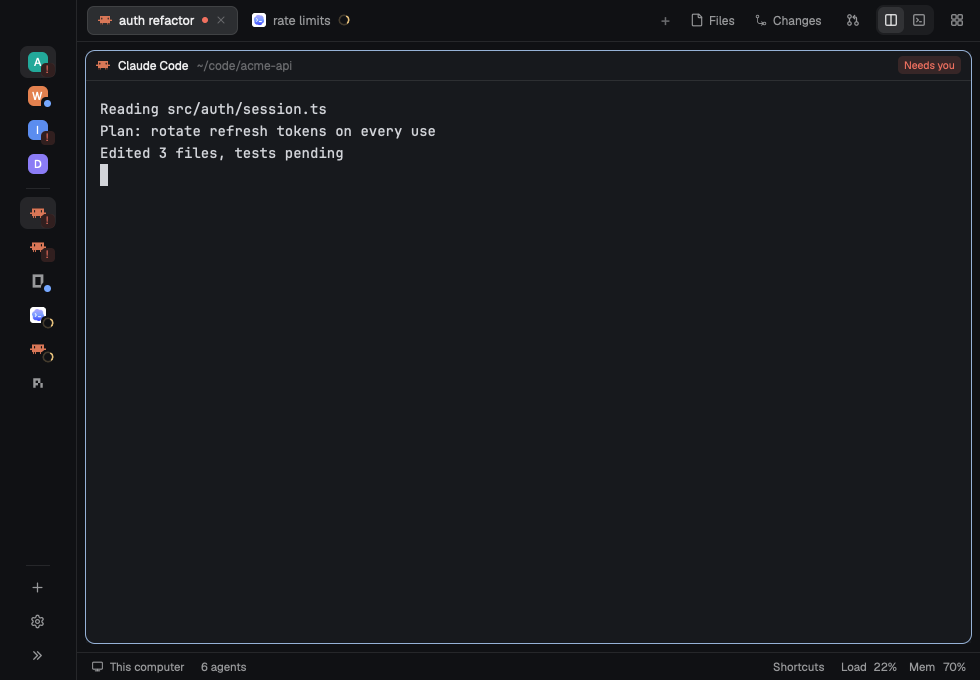
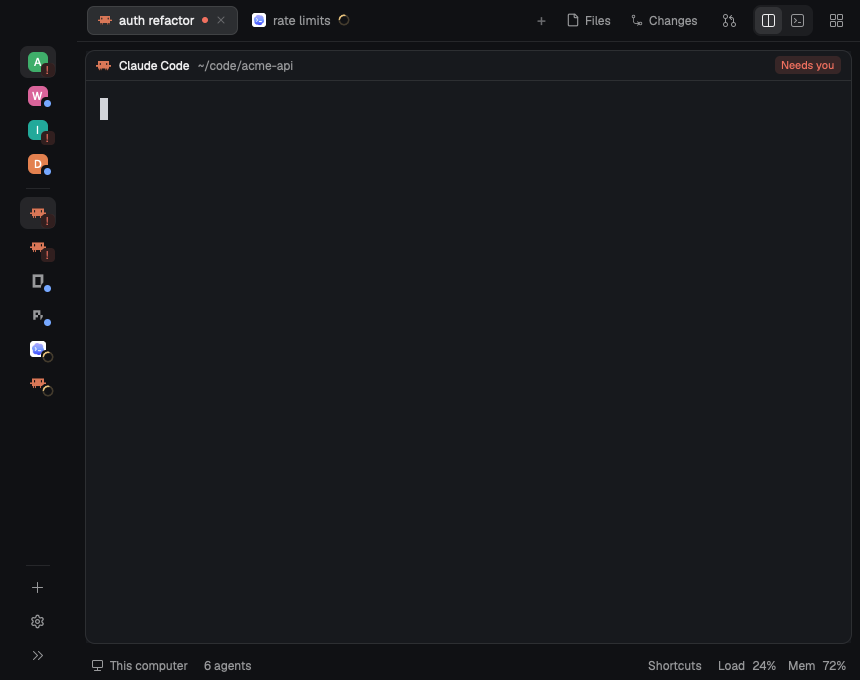
Sharpen for 1x screens and rename to Homestead

diff --git a/mods/homestead/bar.js b/mods/homestead/bar.js
@@ -7,7 +7,7 @@
 import { div, svg } from "gpui-kit";
 import { h_flex } from "gpui-base";
 import { agents, focused, layout, nextCommand, notify, openOverlay, panes, run, setShared, shared, spaces, theme, window } from "herdr";
-import { inboxRows, panelLimit, showsFooter } from "./fit.js";
+import { inboxRows, panelLimit, showsFooter, showsLabels } from "./fit.js";
 import { closeOverview, openOverview, overviewOpen } from "./fleet.js";
 import { inboxHeight } from "./inbox.js";
 import { alert, byUrgency, needing, node, paneStatus, programIcon, showTabs, stopPress, zoom } from "./lib.js";
@@ -17,7 +17,10 @@ const VIEWS = [
   { id: "agent", label: "Agent", icon: "mods/homestead/agent.svg" },
 ];
 
-const BUTTON = 26;
+// On a 1x screen a child centers exactly only if it and its parent are both odd or
+// both even. The bar's content box is 41px (42 less the rule), so controls are odd.
+const BUTTON = 27;
+const ICON = 15;
 const EDGE = 10;
 
 // The layout is the registry: every extra child of panel-body gets a button.
@@ -157,13 +160,13 @@ export class Bar {
     const program = (inTab.find((p) => p.program?.agent) ?? inTab[0])?.program;
     const name = tab.named ? tab.name : program?.name ?? "Terminal";
     const many = space.tabs.length > 1;
-    return h_flex().id("hs-micro-tab").flex_1().min_w(0).h(29).px(10).gap(7).items_center().rounded(7).text_size(12.8)
+    return h_flex().id("hs-micro-tab").flex_1().min_w(0).h(29).px(10).gap(7).items_center().rounded(7).text_size(13)
       .border(1).border_color(t.border).bg(t.raised).text_color(t.foreground).hover((s) => s.bg(t.hover))
       .on_mouse_down("left", stopPress).on_click(() => { if (many) run("tab.next"); })
       .on_scroll_wheel((e) => { if (Math.abs(e.delta.y) >= 1) run(e.delta.y > 0 ? "tab.prev" : "tab.next"); })
       .child(programIcon(t, program))
       .child(div().flex_1().min_w(0).truncate().child(name))
-      .when(many, (el) => el.child(div().flex_none().text_size(11).text_color(t.muted).child(`${tab.index}/${space.tabs.length}`)))
+      .when(many, (el) => el.child(div().flex_none().text_size(12).text_color(t.muted).child(`${tab.index}/${space.tabs.length}`)))
       .when(tab.status === "working" || tab.status === "blocked" || tab.status === "done", (el) => el.child(tab.status === "working" ? paneStatus(t, "working") : div().size(6).flex_none().rounded(3).bg(t[tab.status])));
   }
 
@@ -172,13 +175,13 @@ export class Bar {
     const active = node("panel-body")?.active ?? "files";
     const child = extraPanels().find((c) => c.id === active);
     const name = child ? panelLabel(child) : active[0].toUpperCase() + active.slice(1);
-    return h_flex().id("hs-micro-panel").flex_1().min_w(0).h(29).px(10).gap(7).items_center().rounded(7).text_size(12.8)
+    return h_flex().id("hs-micro-panel").flex_1().min_w(0).h(29).px(10).gap(7).items_center().rounded(7).text_size(13)
       .border(1).border_color(t.border).bg(t.raised).text_color(t.foreground)
       .on_mouse_down("left", stopPress)
       .child(div().flex_1().min_w(0).truncate().child(name))
       .child(div().id("hs-micro-close").flex_none().text_color(t.muted).hover((s) => s.text_color(t.foreground))
         .on_mouse_down("left", stopPress).on_click(() => run("layout.hide", { id: "panel" }))
-        .child(svg("mods/homestead/close.svg").size(13)));
+        .child(svg("mods/homestead/close.svg").size(ICON)));
   }
 
   renderMicro(t, pill, exit, overview, panelOpen) {
@@ -188,7 +191,7 @@ export class Bar {
       ? (root.traffic_lights[0] + 64) / zoom() : EDGE;
     const plus = div().id("hs-micro-new").size(BUTTON).flex_none().flex().items_center().justify_center().rounded(6).text_color(t.muted)
       .hover((s) => s.bg(t.hover).text_color(t.foreground)).on_mouse_down("left", stopPress)
-      .on_click(() => openOverlay({ mod: "new-menu", kind: "popup", width: 250, height: 512 })).child(svg("mods/homestead/plus.svg").size(14));
+      .on_click(() => openOverlay({ mod: "new-menu", kind: "popup", width: 250, height: 512 })).child(svg("mods/homestead/plus.svg").size(ICON));
     return h_flex().id("hs-bar").size_full().min_w(0).pl(lights).pr(EDGE).gap(6).items_center().bg(t.chrome).border_b(1).border_color(t.border)
       .child(panelOpen ? this.microPanel(t) : this.microTab(t))
       .when(Boolean(exit), (el) => el.child(exit)).child(plus).when(Boolean(pill), (el) => el.child(pill)).child(overview);
@@ -203,7 +206,7 @@ export class Bar {
     const body = node("panel-body");
     const panelOpen = !node("panel")?.hidden;
     const extras = extraPanels();
-    const showLabel = tier === "full";
+    const showLabel = showsLabels(tier);
     const showPill = Boolean(node("sidebar")?.hidden) && blocked.length > 0;
     // On the smallest windows the active tab needs the room: the extra panels
     // and the Agent view stay on the Shortcuts list.
@@ -227,7 +230,7 @@ export class Bar {
       .when(showLabel, (el) => el.px(8)).when(!showLabel, (el) => el.w(BUTTON).tooltip(label))
       .bg(on ? t.selected : "#00000000").text_color(on ? t.foreground : t.muted)
       .hover((s) => s.bg(t.hover).text_color(t.foreground)).on_mouse_down("left", stopPress).on_click(action)
-      .child(svg(icon).size(14)).when(showLabel, (el) => el.child(label));
+      .child(svg(icon).size(ICON)).when(showLabel, (el) => el.child(label));
 
     const views = h_flex().id("hs-views").h(BUTTON + 4).flex_none().p(2).gap(2).items_center().rounded(8).bg(t.hover)
       .children(VIEWS.map((v) => button(`hs-view-${v.id}`, v.label, v.icon, view === v.id, () => setView(v.id))));

diff --git a/mods/homestead/fleet.js b/mods/homestead/fleet.js
@@ -127,17 +127,17 @@ export class Fleet {
       .child(h_flex().gap(8).items_center().min_w(0)
         .child(programIcon(t, a.program, 16))
         .child(div().flex_1().min_w(0).truncate().text_size(13).font_medium().text_color(t.foreground).child(name))
-        .child(div().flex_none().text_size(11).text_color(t.muted).child(ago(since(a))))
+        .child(div().flex_none().text_size(12).text_color(t.muted).child(ago(since(a))))
         .child(mark(t, a.status)))
-      .child(div().truncate().text_size(11.5).text_color(t.muted).child(where || a.address))
-      .child(div().truncate().text_size(11.5).text_color(t.muted).child(this.lines[a.address] ?? ""));
+      .child(div().truncate().text_size(12).text_color(t.muted).child(where || a.address))
+      .child(div().truncate().text_size(12).text_color(t.muted).child(this.lines[a.address] ?? ""));
   }
 
   band(t, band, list, columns, width) {
     const rows = [];
     for (let i = 0; i < list.length; i += columns) rows.push(list.slice(i, i + columns));
     return v_flex().flex_none().gap(GAP)
-      .child(h_flex().h(20).gap(6).items_center().text_size(11.5).text_color(t.muted)
+      .child(h_flex().h(20).gap(6).items_center().text_size(12).text_color(t.muted)
         .child(band.label).child(div().text_color(band.status === "blocked" ? t.blocked : t.muted).child(String(list.length))))
       .children(rows.map((row) => div().flex().flex_row().flex_none().gap(GAP).children(row.map((a) => this.card(t, a, width)))));
   }
@@ -160,8 +160,8 @@ export class Fleet {
     // Names where you are, how to act and how to leave.
     const header = h_flex().h(42).flex_none().px(PADDING).gap(8).items_center().border_b(1).border_color(t.border)
       .child(div().text_size(13).font_medium().text_color(t.foreground).child("Overview"))
-      .child(div().flex_1().min_w(0).truncate().text_size(11.5).text_color(t.muted).child(`${all.length} ${all.length === 1 ? "agent" : "agents"}`))
-      .when(width >= CARD && inner > 420 && all.length > 0, (el) => el.child(div().flex_none().text_size(11.5).text_color(t.muted).child("Arrows to move, Enter to open")))
+      .child(div().flex_1().min_w(0).truncate().text_size(12).text_color(t.muted).child(`${all.length} ${all.length === 1 ? "agent" : "agents"}`))
+      .when(width >= CARD && inner > 420 && all.length > 0, (el) => el.child(div().flex_none().text_size(12).text_color(t.muted).child("Arrows to move, Enter to open")))
       .child(div().id("hs-fleet-close").h(26).flex_none().px(8).flex().items_center().rounded(6).text_size(12).text_color(t.muted).cursor_pointer()
         .hover((s) => s.bg(t.hover).text_color(t.foreground)).on_click(() => closeOverview()).child("Esc"));
     const body = all.length

diff --git a/mods/homestead/pane.js b/mods/homestead/pane.js
@@ -1,0 +1,54 @@
+// Each pane's 30px header. Focus shows here, as an accent line under the header of
+// the focused pane, and only when the tab is split: with one pane there is nothing
+// to tell apart, so a card stays quiet instead of wearing a bright outline.
+
+import { div, svg } from "gpui-kit";
+import { h_flex } from "gpui-base";
+import { home, panes, props, run, theme } from "herdr";
+import { paneStatus, programIcon } from "./lib.js";
+
+const folder = (cwd) => {
+  if (!cwd) return "";
+  const h = home();
+  return cwd === h ? "~" : cwd.startsWith(`${h}/`) ? `~${cwd.slice(h.length)}` : cwd;
+};
+
+export class Pane {
+  constructor() {
+    this.hovered = false;
+  }
+
+  button(t, id, icon, command, args) {
+    return div().id(id).size(21).flex_none().flex().items_center().justify_center().rounded(4).text_color(t.muted)
+      .hover((s) => s.bg(t.hover).text_color(t.foreground))
+      .on_click((_e, cx) => {
+        cx.stop_propagation();
+        run(command, args);
+      })
+      .child(svg(`mods/homestead/${icon}.svg`).size(15));
+  }
+
+  render() {
+    const t = theme();
+    const all = panes();
+    const p = all.find((x) => x.pane === props()?.pane);
+    if (!p) return div();
+    const pane = p.pane;
+    const name = ((p.program?.agent || p.program?.shell) && p.program.name) || p.title || p.program?.name || "shell";
+    const split = all.filter((x) => x.tab === p.tab).length > 1 && !p.zoomed;
+    const showing = p.focused && split;
+    return h_flex().id(`hs-pane-${pane}`).size_full().min_w(0).px(10).gap(8).items_center().bg(t.background)
+      .border_b(1).border_color(showing ? t.accent : t.border).text_size(12)
+      .on_hover((hovered, cx) => { this.hovered = hovered; cx.notify(); })
+      .on_click(() => run("pane.focus", { pane }))
+      .child(programIcon(t, p.program, 15))
+      .child(div().flex_none().max_w(260).truncate().font_medium().text_color(p.focused ? t.foreground : t.muted).child(name))
+      .child(div().flex_1().min_w(0).truncate().text_color(t.muted).child(folder(p.cwd)))
+      .child(paneStatus(t, p.status))
+      .when(this.hovered, (el) => el
+        .child(this.button(t, `hs-pr-${pane}`, "split-right", "pane.split", { direction: "right", pane }))
+        .child(this.button(t, `hs-pd-${pane}`, "split-down", "pane.split", { direction: "down", pane }))
+        .child(this.button(t, `hs-pz-${pane}`, p.zoomed ? "unzoom" : "zoom", "pane.zoom", { pane }))
+        .child(this.button(t, `hs-px-${pane}`, "close", "pane.close", { pane })));
+  }
+}

diff --git a/mods/homestead/fit.js b/mods/homestead/fit.js
@@ -6,11 +6,14 @@ import { div } from "gpui-kit";
 import { props, run, setShared, shared, window } from "herdr";
 import { node, zoom } from "./lib.js";
 
+// `full` starts where a 268px sidebar still leaves an 80-column terminal, which also
+// fits a 1080px portrait monitor. Bar labels need the wider tier.
 const WIDTH = [
-  { tier: "full", min: 1200, sidebar: "open", panel: 368, meters: true, tabs: true },
-  { tier: "rail", min: 820, sidebar: "rail", panel: 320, meters: true, tabs: true },
-  { tier: "solo", min: 560, sidebar: "hidden", panel: 0, meters: false, tabs: true },
-  { tier: "micro", min: 0, sidebar: "hidden", panel: 0, meters: false, tabs: false },
+  { tier: "wide", min: 1240, sidebar: "open", panel: 368, meters: true, tabs: true, labels: true },
+  { tier: "full", min: 960, sidebar: "open", panel: 320, meters: true, tabs: true, labels: false },
+  { tier: "rail", min: 720, sidebar: "rail", panel: 300, meters: true, tabs: true, labels: false },
+  { tier: "solo", min: 560, sidebar: "hidden", panel: 0, meters: false, tabs: true, labels: false },
+  { tier: "micro", min: 0, sidebar: "hidden", panel: 0, meters: false, tabs: false, labels: false },
 ];
 
 // `inbox`: how many rows show before the list scrolls; the bar reads it.
@@ -23,6 +26,7 @@ const HEIGHT = [
 
 export const inboxRows = (tier) => HEIGHT.find((row) => row.tier === tier)?.inbox ?? HEIGHT[0].inbox;
 export const showsFooter = (tier) => HEIGHT.find((row) => row.tier === tier)?.footer ?? true;
+export const showsLabels = (tier) => WIDTH.find((row) => row.tier === tier)?.labels ?? true;
 export const showsMeters = (tier) => WIDTH.find((row) => row.tier === tier)?.meters ?? false;
 export const panelLimit = (tier) => WIDTH.find((row) => row.tier === tier)?.panel ?? 0;
 

diff --git a/mods/homestead/lib.js b/mods/homestead/lib.js
@@ -73,15 +73,15 @@ export const alert = (t) => ({ fill: t.blocked + "0c", chip: t.blocked + "26", e
 export const mark = (t, status) => {
   const box = div().size(14).flex_none().flex().items_center().justify_center();
   if (status === "working") return box.child(svg("mods/homestead/spinner.svg").size(12).text_color(t.working).spin(900));
-  if (status === "blocked") return box.rounded(4).bg(alert(t).chip).text_size(10.5).font_bold().text_color(t.blocked).child("!");
+  if (status === "blocked") return box.rounded(4).bg(alert(t).chip).text_size(11).font_bold().text_color(t.blocked).child("!");
   if (status === "done") return box.child(div().size(7).rounded(4).bg(t.done));
   return box.child(div().size(7).rounded(4).border(1.5).border_color(t.idle ?? t.dim));
 };
 
 // The status at the end of a pane header, as the shipped pane mod draws it.
 export const paneStatus = (t, status) => {
-  if (status === "working") return svg("mods/homestead/spinner.svg").size(12).flex_none().text_color(t.working).spin(900);
-  if (status === "blocked") return div().flex_none().px(6).h(18).flex().items_center().rounded(5).bg(alert(t).chip).text_size(10.5).font_semibold().text_color(t.blocked).child("Needs you");
+  if (status === "working") return svg("mods/homestead/spinner.svg").size(13).flex_none().text_color(t.working).spin(900);
+  if (status === "blocked") return div().flex_none().px(6).h(18).flex().items_center().rounded(5).bg(alert(t).chip).text_size(11).font_semibold().text_color(t.blocked).child("Needs you");
   if (status === "done") return div().size(7).flex_none().rounded(4).bg(t.done);
   return div().flex_none();
 };

diff --git a/mods/homestead/inbox.js b/mods/homestead/inbox.js
@@ -44,14 +44,14 @@ export class Inbox {
       .child(h_flex().gap(COLUMN_GAP).items_center().min_w(0)
         .child(h_flex().w(COLUMN).flex_none().justify_center().child(mark(t, a.status)))
         .child(div().flex_1().min_w(0).truncate().text_size(13).font_medium().text_color(t.foreground).child(agentName(a)))
-        .child(div().flex_none().text_size(11).text_color(t.muted).child(ago(since(a)))))
-      .child(h_flex().pl(COLUMN + COLUMN_GAP).gap(5).min_w(0).text_size(11.5)
+        .child(div().flex_none().text_size(12).text_color(t.muted).child(ago(since(a)))))
+      .child(h_flex().pl(COLUMN + COLUMN_GAP).gap(5).min_w(0).text_size(12)
         .child(div().flex_none().max_w(96).truncate().text_color(t.muted).child(space?.name ?? ""))
         .child(div().flex_1().min_w(0).truncate().text_color(blocked ? t.foreground : t.muted).child(detail)));
   }
 
   head(t, label, count, color) {
-    return h_flex().h(HEAD).flex_none().pl(8).gap(6).items_center().text_size(11.5).text_color(t.muted)
+    return h_flex().h(HEAD).flex_none().pl(8).gap(6).items_center().text_size(12).text_color(t.muted)
       .child(label).child(div().text_color(color).child(String(count)));
   }
 

diff --git a/mods/homestead/github.js b/mods/homestead/github.js
@@ -105,7 +105,7 @@ export class GitHub {
       .on_click(() => openUrl(item.url))
       .child(v_flex().flex_1().min_w(0).gap(2)
         .child(div().truncate().text_size(13).text_color(t.foreground).child(item.title))
-        .child(div().truncate().text_size(11.5).text_color(t.muted).child(`#${item.number} · ${detail}`)))
+        .child(div().truncate().text_size(12).text_color(t.muted).child(`#${item.number} · ${detail}`)))
       .child(end);
   }
 
@@ -118,7 +118,7 @@ export class GitHub {
   }
 
   issueRow(t, issue) {
-    const start = div().id(`hs-gh-start-${issue.number}`).flex_none().px(6).h(22).flex().items_center().rounded(5).text_size(11).text_color(t.muted)
+    const start = div().id(`hs-gh-start-${issue.number}`).flex_none().px(6).h(22).flex().items_center().rounded(5).text_size(12).text_color(t.muted)
       .border(1).border_color(t.border).hover((s) => s.bg(t.raised).text_color(t.foreground))
       .on_click((_e, cx) => { cx.stop_propagation(); this.startAgent(issue, cx); }).child("Start agent");
     return this.row(t, issue, issue.author?.login ?? "", start);

diff --git a/mods/homestead/status.js b/mods/homestead/status.js
@@ -54,7 +54,7 @@ export class Status {
       .child(svg(icon).size(13).flex_none()).child(div().min_w(0).truncate().child(text));
     const v = showsMeters(tier) ? this.value : null;
     const compact = tier === "micro";
-    return h_flex().id("hs-status").size_full().min_w(0).px(14).gap(16).items_center().bg(t.chrome).border_t(1).border_color(t.border).text_size(11.5).text_color(t.muted)
+    return h_flex().id("hs-status").size_full().min_w(0).px(14).gap(16).items_center().bg(t.chrome).text_size(12).text_color(t.muted)
       .child(h_flex().flex_1().min_w(0).gap(16).items_center()
         .when(!compact, (el) => el.child(place(space?.machine ? "mods/homestead/server.svg" : "mods/homestead/monitor.svg", space?.machine ?? "This computer")))
         .when(!compact && Boolean(space?.branch), (el) => el.child(h_flex().flex_1().min_w(0).max_w(220).gap(6).items_center()

diff --git a/mods/homestead/agent-head.js b/mods/homestead/agent-head.js
@@ -14,9 +14,9 @@ export class AgentHead {
     if (!a) return div().size_full().bg(t.background);
     const space = spaces().find((s) => s.id === a.space);
     return h_flex().size_full().px(10).gap(8).items_center().bg(t.background).border_b(1).border_color(t.border).text_size(12)
-      .child(programIcon(t, a.program, 14))
+      .child(programIcon(t, a.program, 15))
       .child(div().flex_none().max_w(260).truncate().font_medium().text_color(t.foreground).child(agentName(a)))
-      .child(div().flex_1().min_w(0).truncate().text_color(t.dim).child(space?.name ?? ""))
+      .child(div().flex_1().min_w(0).truncate().text_color(t.muted).child(space?.name ?? ""))
       .child(paneStatus(t, a.status));
   }
 }

diff --git a/mods/homestead/main.js b/mods/homestead/main.js
@@ -11,10 +11,11 @@ import { Fleet } from "./fleet.js";
 import { GitHub } from "./github.js";
 import { Help } from "./help.js";
 import { Inbox } from "./inbox.js";
+import { Pane } from "./pane.js";
 import { Rail } from "./rail.js";
 import { Status } from "./status.js";
 
-const ROLES = { "agent-head": AgentHead, bar: Bar, fit: Fit, fleet: Fleet, github: GitHub, help: Help, inbox: Inbox, rail: Rail, status: Status };
+const ROLES = { "agent-head": AgentHead, bar: Bar, fit: Fit, fleet: Fleet, github: GitHub, help: Help, inbox: Inbox, pane: Pane, rail: Rail, status: Status };
 
 export default class Homestead extends View {
   init(_props, cx) {

diff --git a/mods/homestead/help.js b/mods/homestead/help.js
@@ -38,7 +38,7 @@ export class Help {
   render() {
     const t = theme();
     return v_flex().id("hs-help").size_full().min_h(0).p(6).bg(t.popover)
-      .child(div().h(32).flex_none().px(8).flex().items_center().text_size(11.5).text_color(t.muted).child("Shortcuts"))
+      .child(div().h(32).flex_none().px(8).flex().items_center().text_size(12).text_color(t.muted).child("Shortcuts"))
       .children(ACTIONS.map((item) => this.row(t, item)));
   }
 }

diff --git a/RECIPE.md b/RECIPE.md
@@ -6,7 +6,7 @@ A clean, responsive Herdr window built around one question: who needs me now? A 
 
 ## What you see
 
-Left to right, on `chrome`, divider 1px `border`:
+Left to right, one `chrome` surface. The sidebar's divider is `chrome` too, so it stays draggable but draws nothing, and the status bar has no rule: the card's own edge separates them, with no parallel lines 8px apart.
 
 - **Sidebar** (268px, min 44, max 480):
   - **Brand** (46px, drags the window): shipped `workspace-chrome`.
@@ -17,7 +17,7 @@ Left to right, on `chrome`, divider 1px `border`:
 - **Work column**:
   - **Top bar** (42px): shipped `tabs`, then the bar, 10px between groups: extra panels (26px high, 12px text), a segmented control for Tabs and Agent (30px, radius 8, 2px inset, `hover` fill, inner buttons radius 6), then Overview. The bar's width is measured, so the rhythm is exact at any font and zoom.
   - **Work body** (padding 8, gap 8): the view, then the panel.
-    - **Tabs**: the active tab, panes radius 10, 1px `border`, `accent` on focus, 30px shipped `pane` header, a lone pane framed too.
+    - **Tabs**: the active tab, panes radius 10, 1px `border`, a lone pane framed too. The 30px header is this mod's: the focused pane's name in `foreground`, and when the tab is split, a 1px `accent` line under its header instead of a bright outline around the card. On hover, split, zoom and close.
     - **Agent**: one agent full size in the same frame, under a 30px header that matches the pane header.
     - **Panel** (368px, hidden at first): `files`, `changes` and `github` in a stack. GitHub has a 42px header like Files, two tabs (Pull requests, Issues), Refresh, and 50px rows.
   - **Status** (28px, 11.5px `muted`): machine, branch, `N agents`; at the right Shortcuts, Load and Mem.
@@ -48,8 +48,9 @@ The window adapts by width, measured in zoomed px, so zoom counts as a smaller w
 
 | Tier | Width | Sidebar | Top bar | Panel |
 |---|---|---|---|---|
-| full | 1200+ | open | labels | 368px beside the view |
-| rail | 820+ | one-column rail | icons | 320px beside the view |
+| wide | 1240+ | open | labels | 368px beside the view |
+| full | 960+ | open | icons | 320px beside the view |
+| rail | 720+ | one-column rail | icons | 300px beside the view |
 | solo | 560+ | hidden, `N need you` pill | icons | takes over the work area |
 | micro | under 560 | hidden, `! N` pill | one tab pill, `+`, Overview | takes over the work area |
 
@@ -71,14 +72,14 @@ Keys, scoped to this layout: `cmd-shift-a` Agent, `cmd-shift-o` Overview, `cmd-s
 
 ## Built from
 
-- `layouts/homestead.json`: no look of its own beyond `background: chrome`. Root `row` [`fit-y` 0px block, `shell` column [`fit-x` 0px block, `frame` row [`sidebar` column [`brand`, `sidebar-lists` column [`spaces`, `inbox`, `agents`], `rail`, `sidebar-footer`], `work` column [`topbar` row [`tabs`, `bar`], `work-body` row [`view` stack [`main`, `agent` column [`agent-head`, `agent-terminal`]], `panel` column [`panel-body` stack [`files`, `changes`, `github`], `panel-spare` 0px]], `status`]]]].
-- One mod, `mods/homestead/`, with `props.role`: `fit` (`axis` x or y), `inbox`, `rail`, `bar`, `agent-head`, `github`, `status`, `blank`, and as dialogs `fleet` (Overview) and `help` (Shortcuts). Helpers in `lib.js`. The breakpoints are the two tables at the top of `fit.js`.
-- Shipped mods used as they are, never cloned: `workspace-chrome`, `spaces`, `agents`, `tabs`, `pane`, `files`, `changes`, `new-menu`, `worktree`.
+- `layouts/Homestead.json`: no look of its own beyond `background: chrome`. The filename is the name Settings shows, so keep its capital. Root `row` [`fit-y` 0px block, `shell` column [`fit-x` 0px block, `frame` row [`sidebar` column [`brand`, `sidebar-lists` column [`spaces`, `inbox`, `agents`], `rail`, `sidebar-footer`], `work` column [`topbar` row [`tabs`, `bar`], `work-body` row [`view` stack [`main`, `agent` column [`agent-head`, `agent-terminal`]], `panel` column [`panel-body` stack [`files`, `changes`, `github`], `panel-spare` 0px]], `status`]]]].
+- One mod, `mods/homestead/`, with `props.role`: `fit` (`axis` x or y), `inbox`, `rail`, `bar`, `pane`, `agent-head`, `github`, `status`, `blank`, and as dialogs `fleet` (Overview) and `help` (Shortcuts). Helpers in `lib.js`. The breakpoints are the two tables at the top of `fit.js`.
+- Shipped mods used as they are, never cloned: `workspace-chrome`, `spaces`, `agents`, `tabs`, `files`, `changes`, `new-menu`, `worktree`.
 - `herdr`: `agents`, `spaces`, `panes`, `terminals`, `focused`, `layout`, `shared`, `setShared`, `run`, `hc`, `exec`, `keys`, `knownAgents`, `nextCommand`, `notify`, `openOverlay`, `closeOverlay`, `settings`, `theme`, `window`, `props`.
 - Commands: `layout.show`, `layout.hide`, `layout.resize`, `layout.select`, `agent.focus`, `terminal.peek`, `tab.next`, `tab.prev`, `space.select`, `space.new`, `app.palette`, `app.settings`.
 - Programs: `hc read` (Overview, while open), `sh` with `sysctl`, `vm_stat` or `/proc` (status, local), `gh pr list` and `gh issue list` (GitHub panel, read-only), `open` or `xdg-open` for a row. Nothing else reaches the network.
-- Art: its own stroke icons in `mods/homestead/`, one 18×18 frame in a 24 box. The rail's Settings uses the shipped gear, so it matches the footer.
-- `keys.json`: the `layout:homestead` section, nothing global.
+- Art: its own stroke icons in `mods/homestead/`, drawn at render size on their own grid: 15 and 13 units, `stroke-width` 1 on half-pixel coordinates, `currentColor`. The rail's Settings uses the shipped gear, so it matches the footer.
+- `keys.json`: the `layout:Homestead` section, nothing global.
 
 ## Watch out
 
@@ -86,8 +87,9 @@ Keys, scoped to this layout: `cmd-shift-a` Agent, `cmd-shift-o` Overview, `cmd-s
 - Hidden blocks may not render, so nothing can show itself again. The bar is always shown, so it owns the inbox's size, the rail switch and the panel takeover. Only the bar calls `nextCommand()`.
 - Herdr folds a container with one child when it saves a layout, losing its id. `panel-spare` keeps `panel` alive; the shipped tab bar finds `panel` and `panel-body` by id, so keep them.
 - Panels missing from shared `workspace.panels` close on every space switch. The bar adds them.
+- Low-density screens: on a 1x display a child centers exactly only if it and its parent are both odd or both even, so the bar's content box is 41px and its controls 27px with 15px icons. Text sizes are whole numbers. Herdr zoom scales all of this, so whole-pixel alignment holds exactly at zoom 1.
 - A window in the background doesn't repaint, and `herdr-app shot` then returns an old frame. Bring the window to the front before you judge a capture.
-- `dim` measures under 4.5:1 for text on every theme (2.6 to 3.6 on `chrome`), so this mod's own text uses `muted` or `foreground`. The Agent header's space name stays `dim` to match the shipped pane header beside it. `alert.fill` is `blocked` at 0c, the strongest tint where `muted` holds 4.5:1 on every shipped theme; hover changes the edge, not the fill.
+- `dim` measures under 4.5:1 for text on every theme (2.6 to 3.6 on `chrome`), so this mod's own text uses `muted` or `foreground`. `alert.fill` is `blocked` at 0c, the strongest tint where `muted` holds 4.5:1 on every shipped theme; hover changes the edge, not the fill.
 - First run only: if `agents.sort` is unset, the bar sets it to `grouped`, because the inbox owns urgency. That shared key also applies in other layouts; the list's own menu changes it back.
 - Overview must stay a dialog. A plain layout block never gets the keyboard, so as a view your typing would land in a hidden terminal.
 - Copies of a mod don't share module state. The dialog stores its overlay id in shared `homestead.overview`, so the bar's key can close it.
@@ -102,9 +104,10 @@ Keys, scoped to this layout: `cmd-shift-a` Agent, `cmd-shift-o` Overview, `cmd-s
 
 - `herdr-app check mods/homestead` passes, and `layout.switch {"name": "homestead"}` shows the window above with no errors in `herdr-app status`.
 - A blocked agent appears in the inbox with its message, and disappears when answered. `cmd-shift-j` walks the queue.
-- Resizing live through 1800, 1440, 1100, 860, 680, 480 and 360px gives the tiers above, with no clipped tab and no horizontal overflow, in Tabs, Overview and with a panel open.
+- Resizing live through 2560, 1800, 1440, 1080, 860, 680, 480 and 360px gives the tiers above, with no clipped tab and no horizontal overflow, in Tabs, Overview and with a panel open.
 - Growing the window back restores the sidebar, the panel and their widths.
 - `cmd-shift-z` hides the chrome, Exit focus shows, and it restores everything.
 - In Overview, arrows follow the grid, Enter opens the agent, Esc leaves, and typing never reaches a terminal.
 - A new block in `panel-body` gets a bar button without touching code.
+- In a split tab, only the focused pane's header has the accent line. A lone pane has none.
 - 0, 1 and 60 agents, long, CJK, Arabic and emoji names, and a `<script>` tab name all render as plain text without breaking a row.
